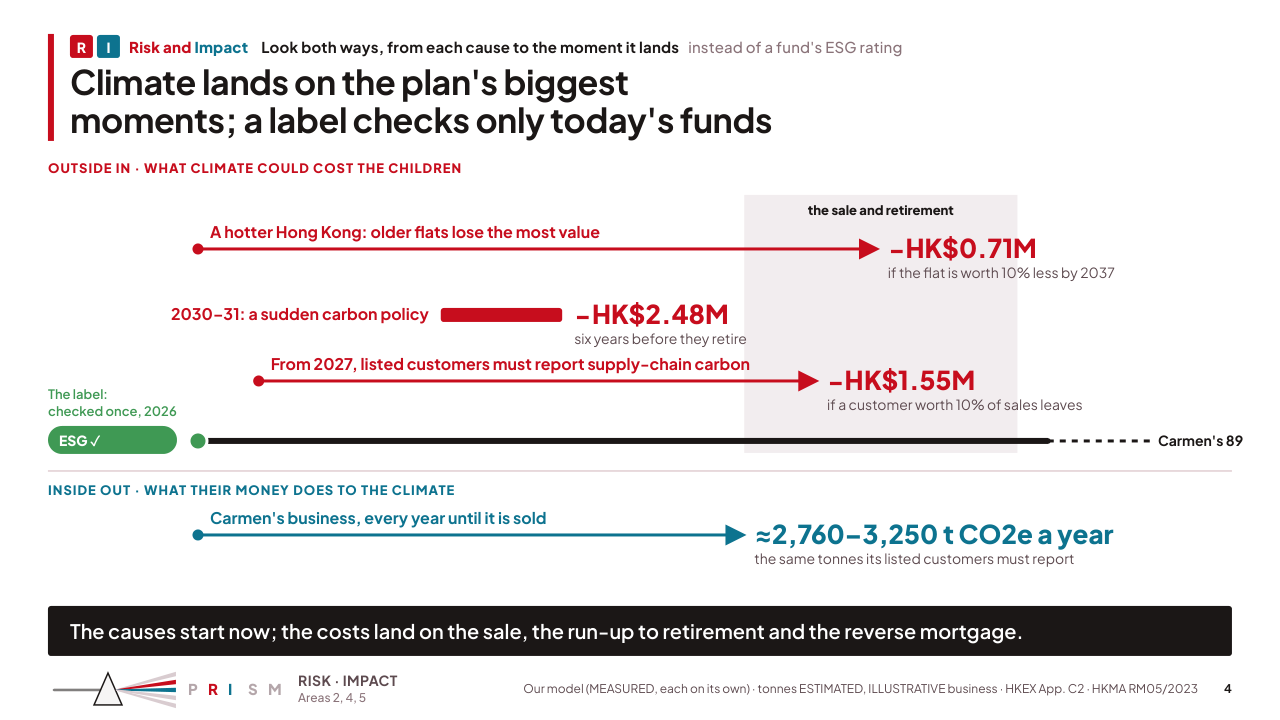
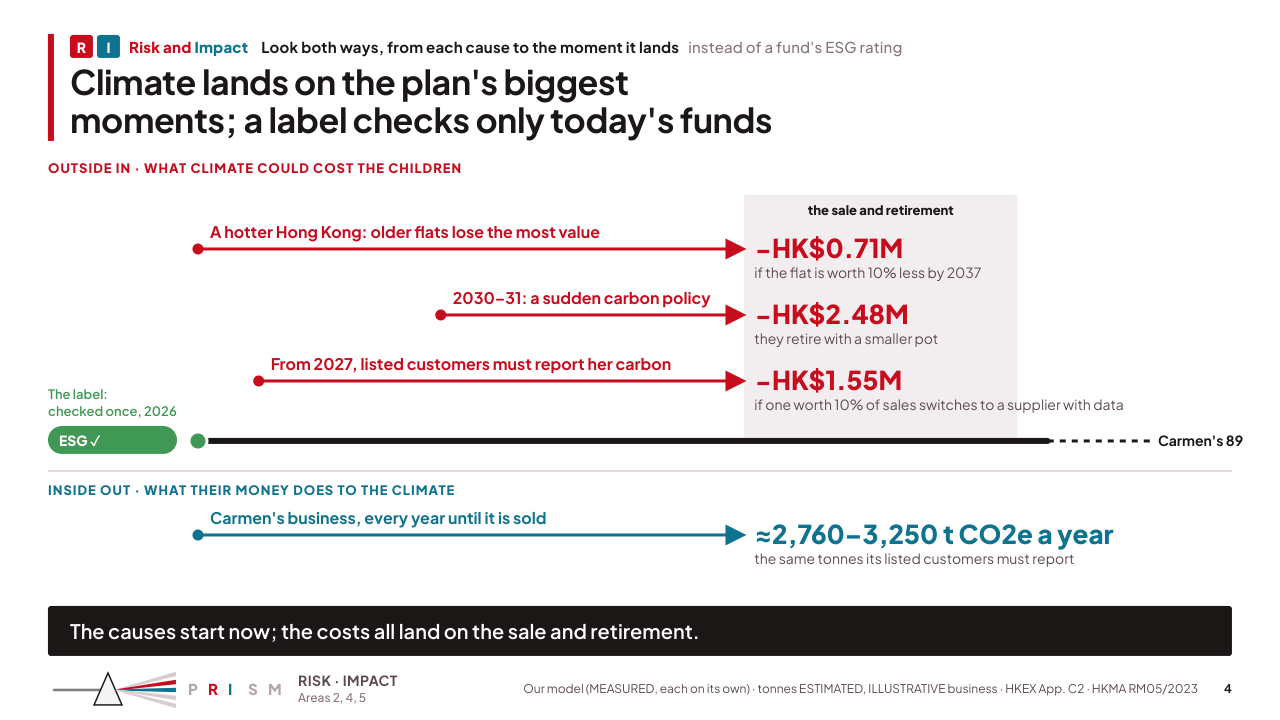
Final: slide 4, every cause a lane landing at the sale and retirement
Pete: the 2030-31 block read as a bold dash; the sale-and-retirement band ran
past the plan's line; is "a customer worth 10% of sales leaves" a valid
argument? The shock is now a lane like the others (it lands as a smaller pot
at retirement); all lanes land at the window, so the costs make one column;
the band stops at the line; the sowhat says the costs all land on the sale
and retirement. The customers' lane names whose carbon ("her carbon") and the
mechanism ("switches to a supplier with data"); the notes separate what is
sourced (HKEX Scope 3 from FY2026, data requests) from our assumptions (that
a customer leaves, the 10%).

Changed region(s): [[0.125, 0.3056, 0.875, 0.5806], [0.2812, 0.8556, 0.8125, 0.8861]]

diff --git a/Final/deck/Axis_Script.html b/Final/deck/Axis_Script.html
@@ -24,5 +24,5 @@ section p b{display:inline-block;min-width:76px;font-weight:600;font-size:14px;l
 <p class="sum">Team Axis · generated 2026-11-11 from the slides' speaker notes.</p>
 <p class="sum">33 spoken words (the budget is about 1,200 for 9:20). Slides allotted 8:50. Speech: 0:13 at 145 words a minute (0:33 with names and handovers); 0:14 at 135 words a minute (0:34 with names and handovers); 0:15 at 125 words a minute (0:35 with names and handovers). Over 10:30 disqualifies the team.</p>
 <p class="sum">Speaking time at 135 words a minute: Pete 0:05, Lookbua 0:04, Fahtai 0:02, Win 0:02.</p>
-<section><p class="n">1</p><div><h2>[The plan built on labels falls below the family&#x27;s safety floor]</h2><p class="m">The pre-mortem · 2031, a scenario, not a forecast · Pete · 0:55 · 3 spoken words (≈1 s at 135)</p><p><b>Pete</b>[script to write]</p><p class="x">Notes: Pete says their simple name before their part. Say &quot;Team Axis&quot; before the first words. Evidence status per claim in §4.5.</p></div></section><section><p class="n">2</p><div><h2>PRISM</h2><p class="m">Pete · 0:45 · 3 spoken words (≈1 s at 135)</p><p><b>Pete</b>[script to write]</p><p class="x">Notes: Pete says his simple name before his part. What it must prove: Final/Final_Plan.md §4.5, slide 2, and §4.2 &quot;five letters, five twists&quot;. Evidence status per claim in §4.5.</p></div></section><section><p class="n">3</p><div><h2>[For one Hong Kong family: N changes, HK$… of capital, HK$… more to the children, … t a year less]</h2><p class="m">Pete · 0:45 · 3 spoken words (≈1 s at 135)</p><p><b>Pete</b>[script to write]</p><p class="x">Notes: Pete says their simple name before their part. Evidence status per claim in §4.5.</p></div></section><section><p class="n">4</p><div><h2>Climate lands on the plan&#x27;s biggest moments; a label checks only today&#x27;s funds</h2><p class="m">Lookbua · 0:45 · 3 spoken words (≈1 s at 135)</p><p><b>Lookbua</b>[script to write]</p><p class="x">Notes: Lookbua says her simple name before her part. Must prove: Final_Plan.md §4.5, slide 4. Money: change in the children&#x27;s median inheritance at Carmen&#x27;s 89, each on its own (our model, M3, M6, M7: MEASURED, exploratory runs). Customers: HKEX Listing Rules App. C2 (LargeCap Scope 3 from FY2026, first reports 2027). Tonnes: area2_business.md §3b (ESTIMATED, ILLUSTRATIVE business). Older flats, if asked &quot;isn&#x27;t that just ageing?&quot;: HKMA Research Memorandum 05/2023 finds that in a hotter Hong Kong (HKO&#x27;s &quot;High&quot; scenario) average prices could be 4% to 21% lower by about 2050, and &quot;the older the property, the larger the expected adverse impact&quot;. Ageing would lower an old flat&#x27;s price anyway; the climate part is the extra the HKMA finds. Our −10% by 2037 is a test, not the HKMA&#x27;s number (ILLUSTRATIVE); area4_property_scenario.md §3.3. The packaging share (98%) is on slide 7; shares as a footprint, not a change, on slide 9.</p></div></section><section><p class="n">5</p><div><h2>Test the whole household in one storm: climate hits every asset at once, and the loss lasts</h2><p class="m">Lookbua · 0:40 · 3 spoken words (≈1 s at 135)</p><p><b>Lookbua</b>[script to write]</p><p class="x">Notes: Lookbua says their simple name before their part. Must prove: Final_Plan.md §4.5, slide 5. Lines: the parents&#x27; net worth at the start of each year (the median portfolio after the children&#x27;s education money, the flat less the mortgage and the reverse-mortgage loan, the business at its HK$3.0M sale price until 2039: ILLUSTRATIVE before the sale), final_model.py net_worth_path(), MEASURED on our model. The normal line falls after 2037 by design: retirement spending, the two annuities, the reverse-mortgage loan. The shock: area4_property_scenario.md §5.1 (sizes ILLUSTRATIVE, set between NGFS, HKMA, BoE, ECB and CISL bounds; the ESG sleeve takes the same shock as other shares). The three parts are each run on its own; together they explain the gap. If asked &quot;isn&#x27;t the portfolio what matters?&quot;: it is the biggest part, and it is market risk no label changes; the decision that moves the outcome is on the flat (slide 6).</p></div></section><section><p class="n">6</p><div><h2>The guardrails decide before preferences</h2><p class="m">Lookbua · 0:45 · 3 spoken words (≈1 s at 135)</p><p><b>Lookbua</b>[script to write]</p><p class="x">Notes: Lookbua says their simple name before their part. Evidence status per claim in §4.5.</p></div></section><section><p class="n">7</p><div><h2>Most effect per HK$ first</h2><p class="m">Fahtai · 0:55 · 3 spoken words (≈1 s at 135)</p><p><b>Fahtai</b>[script to write]</p><p class="x">Notes: Fahtai says their simple name before their part. Evidence status per claim in §4.5.</p></div></section><section><p class="n">8</p><div><h2>The kind of finance sets the test: judge a green loan as a loan</h2><p class="m">Fahtai · 0:55 · 3 spoken words (≈1 s at 135)</p><p><b>Fahtai</b>[script to write]</p><p class="x">Notes: Fahtai says their simple name before their part. Evidence status per claim in §4.5.</p></div></section><section><p class="n">9</p><div><h2>The sustainable share is an output of the budgets, not a target</h2><p class="m">Win · 1:00 · 3 spoken words (≈1 s at 135)</p><p><b>Win</b>[script to write]</p><p class="x">Notes: Win says their simple name before their part. Evidence status per claim in §4.5.</p></div></section><section><p class="n">10</p><div><h2>Every missing price is a decision, and the plan knows when it&#x27;s wrong</h2><p class="m">Win · 0:45 · 3 spoken words (≈1 s at 135)</p><p><b>Win</b>[script to write]</p><p class="x">Notes: Win says their simple name before their part. Evidence status per claim in §4.5.</p></div></section><section><p class="n">11</p><div><h2>[Same storm, our plan: above the floor, because the framework took out what didn&#x27;t work]</h2><p class="m">The replay · 2031, the same storm · Pete · 0:40 · 3 spoken words (≈1 s at 135)</p><p><b>Pete</b>[script to write]</p><p class="x">Notes: Pete says their simple name before their part. Evidence status per claim in §4.5.</p></div></section>
+<section><p class="n">1</p><div><h2>[The plan built on labels falls below the family&#x27;s safety floor]</h2><p class="m">The pre-mortem · 2031, a scenario, not a forecast · Pete · 0:55 · 3 spoken words (≈1 s at 135)</p><p><b>Pete</b>[script to write]</p><p class="x">Notes: Pete says their simple name before their part. Say &quot;Team Axis&quot; before the first words. Evidence status per claim in §4.5.</p></div></section><section><p class="n">2</p><div><h2>PRISM</h2><p class="m">Pete · 0:45 · 3 spoken words (≈1 s at 135)</p><p><b>Pete</b>[script to write]</p><p class="x">Notes: Pete says his simple name before his part. What it must prove: Final/Final_Plan.md §4.5, slide 2, and §4.2 &quot;five letters, five twists&quot;. Evidence status per claim in §4.5.</p></div></section><section><p class="n">3</p><div><h2>[For one Hong Kong family: N changes, HK$… of capital, HK$… more to the children, … t a year less]</h2><p class="m">Pete · 0:45 · 3 spoken words (≈1 s at 135)</p><p><b>Pete</b>[script to write]</p><p class="x">Notes: Pete says their simple name before their part. Evidence status per claim in §4.5.</p></div></section><section><p class="n">4</p><div><h2>Climate lands on the plan&#x27;s biggest moments; a label checks only today&#x27;s funds</h2><p class="m">Lookbua · 0:45 · 3 spoken words (≈1 s at 135)</p><p><b>Lookbua</b>[script to write]</p><p class="x">Notes: Lookbua says her simple name before her part. Must prove: Final_Plan.md §4.5, slide 4. Money: change in the children&#x27;s median inheritance at Carmen&#x27;s 89, each on its own (our model, M3, M6, M7: MEASURED, exploratory runs). Customers: HKEX Listing Rules App. C2 (LargeCap Scope 3 from FY2026, first reports 2027). Tonnes: area2_business.md §3b (ESTIMATED, ILLUSTRATIVE business). Older flats, if asked &quot;isn&#x27;t that just ageing?&quot;: HKMA Research Memorandum 05/2023 finds that in a hotter Hong Kong (HKO&#x27;s &quot;High&quot; scenario) average prices could be 4% to 21% lower by about 2050, and &quot;the older the property, the larger the expected adverse impact&quot;. Ageing would lower an old flat&#x27;s price anyway; the climate part is the extra the HKMA finds. Our −10% by 2037 is a test, not the HKMA&#x27;s number (ILLUSTRATIVE); area4_property_scenario.md §3.3. The packaging share (98%) is on slide 7; shares as a footprint, not a change, on slide 9. Customers, if asked &quot;reporting is only disclosure, why would anyone leave?&quot;: what is sourced is that LargeCap issuers must report Scope 3 from FY2026 and HKEX tells them to request supplier data; her packaging is their Category 1. Our inference from how Scope 3 is counted: a supplier without data is counted at an industry average, which a customer with a target can&#x27;t show falling, so the account can go to a rival who shows lower numbers. That a customer leaves, and the 10%, are our assumptions (M3, a sensitivity, not a forecast; her customers are ILLUSTRATIVE). The answer is cheap: data at about HK$50K a year pays for itself if it keeps 0.6% of sales (slide 8).</p></div></section><section><p class="n">5</p><div><h2>Test the whole household in one storm: climate hits every asset at once, and the loss lasts</h2><p class="m">Lookbua · 0:40 · 3 spoken words (≈1 s at 135)</p><p><b>Lookbua</b>[script to write]</p><p class="x">Notes: Lookbua says their simple name before their part. Must prove: Final_Plan.md §4.5, slide 5. Lines: the parents&#x27; net worth at the start of each year (the median portfolio after the children&#x27;s education money, the flat less the mortgage and the reverse-mortgage loan, the business at its HK$3.0M sale price until 2039: ILLUSTRATIVE before the sale), final_model.py net_worth_path(), MEASURED on our model. The normal line falls after 2037 by design: retirement spending, the two annuities, the reverse-mortgage loan. The shock: area4_property_scenario.md §5.1 (sizes ILLUSTRATIVE, set between NGFS, HKMA, BoE, ECB and CISL bounds; the ESG sleeve takes the same shock as other shares). The three parts are each run on its own; together they explain the gap. If asked &quot;isn&#x27;t the portfolio what matters?&quot;: it is the biggest part, and it is market risk no label changes; the decision that moves the outcome is on the flat (slide 6).</p></div></section><section><p class="n">6</p><div><h2>The guardrails decide before preferences</h2><p class="m">Lookbua · 0:45 · 3 spoken words (≈1 s at 135)</p><p><b>Lookbua</b>[script to write]</p><p class="x">Notes: Lookbua says their simple name before their part. Evidence status per claim in §4.5.</p></div></section><section><p class="n">7</p><div><h2>Most effect per HK$ first</h2><p class="m">Fahtai · 0:55 · 3 spoken words (≈1 s at 135)</p><p><b>Fahtai</b>[script to write]</p><p class="x">Notes: Fahtai says their simple name before their part. Evidence status per claim in §4.5.</p></div></section><section><p class="n">8</p><div><h2>The kind of finance sets the test: judge a green loan as a loan</h2><p class="m">Fahtai · 0:55 · 3 spoken words (≈1 s at 135)</p><p><b>Fahtai</b>[script to write]</p><p class="x">Notes: Fahtai says their simple name before their part. Evidence status per claim in §4.5.</p></div></section><section><p class="n">9</p><div><h2>The sustainable share is an output of the budgets, not a target</h2><p class="m">Win · 1:00 · 3 spoken words (≈1 s at 135)</p><p><b>Win</b>[script to write]</p><p class="x">Notes: Win says their simple name before their part. Evidence status per claim in §4.5.</p></div></section><section><p class="n">10</p><div><h2>Every missing price is a decision, and the plan knows when it&#x27;s wrong</h2><p class="m">Win · 0:45 · 3 spoken words (≈1 s at 135)</p><p><b>Win</b>[script to write]</p><p class="x">Notes: Win says their simple name before their part. Evidence status per claim in §4.5.</p></div></section><section><p class="n">11</p><div><h2>[Same storm, our plan: above the floor, because the framework took out what didn&#x27;t work]</h2><p class="m">The replay · 2031, the same storm · Pete · 0:40 · 3 spoken words (≈1 s at 135)</p><p><b>Pete</b>[script to write]</p><p class="x">Notes: Pete says their simple name before their part. Evidence status per claim in §4.5.</p></div></section>
 </main></body></html>

diff --git a/Final/deck/Axis.html b/Final/deck/Axis.html
@@ -254,10 +254,10 @@ tr.total td{border-top:2.5px solid var(--ink);font-weight:700}
 <section class="slide sec-R" id="s4" data-time="0:45" data-speaker="Lookbua">
   <header class="head"><p class="kick kt"><b class="kt-L">R</b><b class="kt-L kt-I">I</b><b class="kt-n">Risk and <span class="kt-i">Impact</span></b><span class="kt-do">Look both ways, from each cause to the moment it lands</span><span class="kt-not">instead of a fund's ESG rating</span></p>
     <h2>Climate lands on the plan's biggest moments; a label checks only today's funds</h2></header>
-  <div class="body stack s4-body"><svg viewBox="0 0 1184 420" width="1184" height="420" style="font-family:var(--text);overflow:visible"><defs><marker id="aR" viewBox="0 0 10 10" refX="8" refY="5" markerWidth="7" markerHeight="7" orient="auto-start-reverse"><path d="M0,0 L10,5 L0,10 z" fill="#C80E1E"/></marker><marker id="aI" viewBox="0 0 10 10" refX="8" refY="5" markerWidth="7" markerHeight="7" orient="auto-start-reverse"><path d="M0,0 L10,5 L0,10 z" fill="#0E7490"/></marker></defs><text x="0" y="14" font-size="13" font-weight="800" letter-spacing="1" fill="#C80E1E">OUTSIDE IN · WHAT CLIMATE COULD COST THE CHILDREN</text><rect x="696.3000000000001" y="36" width="273.15" height="258" fill="#F3EEEF"/><text x="832.875" y="56" font-size="13" font-weight="800" fill="#1B1716" text-anchor="middle">the sale and retirement</text><circle cx="150.0" cy="90" r="5.5" fill="#C80E1E"/><line x1="150.0" y1="90" x2="827.8400000000028" y2="90" stroke="#C80E1E" stroke-width="3" marker-end="url(#aR)"/><text x="162.0" y="79" font-size="16" font-weight="700" fill="#C80E1E">A hotter Hong Kong: older flats lose the most value</text><text x="839.8400000000028" y="99" font-size="26" font-weight="800" fill="#C80E1E">−HK$0.71M</text><text x="839.8400000000028" y="119" font-size="14" fill="#5E4A50">if the flat is worth 10% less by 2037</text><rect x="392.8" y="149" width="121.40000000000003" height="14" rx="3" fill="#C80E1E"/><text x="380.8" y="161" font-size="16" font-weight="700" fill="#C80E1E" text-anchor="end">2030–31: a sudden carbon policy</text><text x="526.2" y="165" font-size="26" font-weight="800" fill="#C80E1E">−HK$2.48M</text><text x="526.2" y="185" font-size="14" fill="#5E4A50">six years before they retire</text><circle cx="210.7" cy="222" r="5.5" fill="#C80E1E"/><line x1="210.7" y1="222" x2="767.1400000000028" y2="222" stroke="#C80E1E" stroke-width="3" marker-end="url(#aR)"/><text x="222.7" y="211" font-size="16" font-weight="700" fill="#C80E1E">From 2027, listed customers must report supply-chain carbon</text><text x="779.1400000000028" y="231" font-size="26" font-weight="800" fill="#C80E1E">−HK$1.55M</text><text x="779.1400000000028" y="251" font-size="14" fill="#5E4A50">if a customer worth 10% of sales leaves</text><line x1="150.0" y1="282" x2="999.8000000000001" y2="282" stroke="#1B1716" stroke-width="6" stroke-linecap="round"/><line x1="999.8000000000001" y1="282" x2="1105" y2="282" stroke="#1B1716" stroke-width="3" stroke-dasharray="6 6"/><text x="1110" y="287" font-size="14" font-weight="700" fill="#1B1716">Carmen's 89</text><circle cx="150.0" cy="282" r="9" fill="#3F9A55" stroke="#fff" stroke-width="3"/><line x1="0" y1="312" x2="1184" y2="312" stroke="#E2CFD3" stroke-width="1.5"/><text x="0" y="336" font-size="13" font-weight="800" letter-spacing="1" fill="#0E7490">INSIDE OUT · WHAT THEIR MONEY DOES TO THE CLIMATE</text><circle cx="150.0" cy="376" r="5.5" fill="#0E7490"/><line x1="150.0" y1="376" x2="694.3000000000001" y2="376" stroke="#0E7490" stroke-width="3" marker-end="url(#aI)"/><text x="162.0" y="365" font-size="16" font-weight="700" fill="#0E7490">Carmen's business, every year until it is sold</text><text x="706.3000000000001" y="385" font-size="26" font-weight="800" fill="#0E7490">≈2,760–3,250 t CO2e a year</text><text x="706.3000000000001" y="405" font-size="14" fill="#5E4A50">the same tonnes its listed customers must report</text></svg>
+  <div class="body stack s4-body"><svg viewBox="0 0 1184 420" width="1184" height="420" style="font-family:var(--text);overflow:visible"><defs><marker id="aR" viewBox="0 0 10 10" refX="8" refY="5" markerWidth="7" markerHeight="7" orient="auto-start-reverse"><path d="M0,0 L10,5 L0,10 z" fill="#C80E1E"/></marker><marker id="aI" viewBox="0 0 10 10" refX="8" refY="5" markerWidth="7" markerHeight="7" orient="auto-start-reverse"><path d="M0,0 L10,5 L0,10 z" fill="#0E7490"/></marker></defs><text x="0" y="14" font-size="13" font-weight="800" letter-spacing="1" fill="#C80E1E">OUTSIDE IN · WHAT CLIMATE COULD COST THE CHILDREN</text><rect x="696.3000000000001" y="36" width="273.15" height="246" fill="#F3EEEF"/><text x="832.875" y="56" font-size="13" font-weight="800" fill="#1B1716" text-anchor="middle">the sale and retirement</text><circle cx="150.0" cy="90" r="5.5" fill="#C80E1E"/><line x1="150.0" y1="90" x2="694.3000000000001" y2="90" stroke="#C80E1E" stroke-width="3" marker-end="url(#aR)"/><text x="162.0" y="79" font-size="16" font-weight="700" fill="#C80E1E">A hotter Hong Kong: older flats lose the most value</text><text x="706.3000000000001" y="99" font-size="26" font-weight="800" fill="#C80E1E">−HK$0.71M</text><text x="706.3000000000001" y="119" font-size="14" fill="#5E4A50">if the flat is worth 10% less by 2037</text><circle cx="392.8" cy="156" r="5.5" fill="#C80E1E"/><line x1="392.8" y1="156" x2="694.3000000000001" y2="156" stroke="#C80E1E" stroke-width="3" marker-end="url(#aR)"/><text x="404.8" y="145" font-size="16" font-weight="700" fill="#C80E1E">2030–31: a sudden carbon policy</text><text x="706.3000000000001" y="165" font-size="26" font-weight="800" fill="#C80E1E">−HK$2.48M</text><text x="706.3000000000001" y="185" font-size="14" fill="#5E4A50">they retire with a smaller pot</text><circle cx="210.7" cy="222" r="5.5" fill="#C80E1E"/><line x1="210.7" y1="222" x2="694.3000000000001" y2="222" stroke="#C80E1E" stroke-width="3" marker-end="url(#aR)"/><text x="222.7" y="211" font-size="16" font-weight="700" fill="#C80E1E">From 2027, listed customers must report her carbon</text><text x="706.3000000000001" y="231" font-size="26" font-weight="800" fill="#C80E1E">−HK$1.55M</text><text x="706.3000000000001" y="251" font-size="14" fill="#5E4A50">if one worth 10% of sales switches to a supplier with data</text><line x1="150.0" y1="282" x2="999.8000000000001" y2="282" stroke="#1B1716" stroke-width="6" stroke-linecap="round"/><line x1="999.8000000000001" y1="282" x2="1105" y2="282" stroke="#1B1716" stroke-width="3" stroke-dasharray="6 6"/><text x="1110" y="287" font-size="14" font-weight="700" fill="#1B1716">Carmen's 89</text><circle cx="150.0" cy="282" r="9" fill="#3F9A55" stroke="#fff" stroke-width="3"/><line x1="0" y1="312" x2="1184" y2="312" stroke="#E2CFD3" stroke-width="1.5"/><text x="0" y="336" font-size="13" font-weight="800" letter-spacing="1" fill="#0E7490">INSIDE OUT · WHAT THEIR MONEY DOES TO THE CLIMATE</text><circle cx="150.0" cy="376" r="5.5" fill="#0E7490"/><line x1="150.0" y1="376" x2="694.3000000000001" y2="376" stroke="#0E7490" stroke-width="3" marker-end="url(#aI)"/><text x="162.0" y="365" font-size="16" font-weight="700" fill="#0E7490">Carmen's business, every year until it is sold</text><text x="706.3000000000001" y="385" font-size="26" font-weight="800" fill="#0E7490">≈2,760–3,250 t CO2e a year</text><text x="706.3000000000001" y="405" font-size="14" fill="#5E4A50">the same tonnes its listed customers must report</text></svg>
     <div class="s4-lbl"><span class="chip">ESG ✓</span><p>The label:<br>checked once, 2026</p></div>
   </div>
-  <p class="sowhat">The causes start now; the costs land on the sale, the run-up to retirement and the reverse mortgage.</p>
+  <p class="sowhat">The causes start now; the costs all land on the sale and retirement.</p>
   <aside class="notes">LOOKBUA: [script to write] [Notes: Lookbua says her simple name before her part. Must prove:
     Final_Plan.md §4.5, slide 4. Money: change in the children's median inheritance at Carmen's 89, each on its own
     (our model, M3, M6, M7: MEASURED, exploratory runs). Customers: HKEX Listing Rules App. C2 (LargeCap Scope 3 from
@@ -266,7 +266,14 @@ tr.total td{border-top:2.5px solid var(--ink);font-weight:700}
     scenario) average prices could be 4% to 21% lower by about 2050, and "the older the property, the larger the
     expected adverse impact". Ageing would lower an old flat's price anyway; the climate part is the extra the HKMA
     finds. Our −10% by 2037 is a test, not the HKMA's number (ILLUSTRATIVE); area4_property_scenario.md §3.3.
-    The packaging share (98%) is on slide 7; shares as a footprint, not a change, on slide 9.]</aside>
+    The packaging share (98%) is on slide 7; shares as a footprint, not a change, on slide 9. Customers, if
+    asked "reporting is only disclosure, why would anyone leave?": what is sourced is that LargeCap issuers must report
+    Scope 3 from FY2026 and HKEX tells them to request supplier data; her packaging is their Category 1. Our inference
+    from how Scope 3 is counted: a supplier without data is counted at an industry average, which a customer with a
+    target can't show falling, so the account can go to a rival who shows lower numbers. That a customer leaves, and
+    the 10%, are our assumptions (M3, a sensitivity, not a
+    forecast; her customers are ILLUSTRATIVE). The answer is cheap: data at about HK$50K a year pays for itself if it
+    keeps 0.6% of sales (slide 8).]</aside>
   <footer class="foot">
     <div class="badge-prism"><svg viewBox="0 0 236 44" width="236" height="44"><line x1="6" y1="23" x2="52" y2="23" stroke="#1B1716" stroke-opacity=".55" stroke-width="2.6" stroke-linecap="round"/><polygon points="60,6 46,38 74,38" fill="#1B1716" fill-opacity=".04" stroke="#1B1716" stroke-width="1.5"/><polygon points="68,22.4 128,4.8 128,9.2 68,23.6" fill="#D9CDD0"/><polygon points="68,22.4 128,12.8 128,17.2 68,23.6" fill="#C80E1E"/><polygon points="68,22.4 128,20.8 128,25.2 68,23.6" fill="#0E7490"/><polygon points="68,22.4 128,28.8 128,33.2 68,23.6" fill="#D9CDD0"/><polygon points="68,22.4 128,36.8 128,41.2 68,23.6" fill="#D9CDD0"/><text x="140" y="28.5" font-size="15" font-weight="800" fill="#B5A6AA">P</text><text x="160" y="28.5" font-size="15" font-weight="800" fill="#C80E1E">R</text><text x="180" y="28.5" font-size="15" font-weight="800" fill="#0E7490">I</text><text x="200" y="28.5" font-size="15" font-weight="800" fill="#B5A6AA">S</text><text x="220" y="28.5" font-size="15" font-weight="800" fill="#B5A6AA">M</text></svg><p>RISK · IMPACT<span>Areas 2, 4, 5</span></p></div>
     <p class="src">Our model (MEASURED, each on its own) · tonnes ESTIMATED, ILLUSTRATIVE business · HKEX App. C2 · HKMA RM05/2023</p><span class="pg">4</span>

diff --git a/Final/deck/src/01_talk.html b/Final/deck/src/01_talk.html
@@ -79,10 +79,10 @@
 <section class="slide sec-R" id="s4" data-time="0:45" data-speaker="Lookbua">
   <header class="head"><p class="kick kt"><b class="kt-L">R</b><b class="kt-L kt-I">I</b><b class="kt-n">Risk and <span class="kt-i">Impact</span></b><span class="kt-do">Look both ways, from each cause to the moment it lands</span><span class="kt-not">instead of a fund's ESG rating</span></p>
     <h2>Climate lands on the plan's biggest moments; a label checks only today's funds</h2></header>
-  <div class="body stack s4-body"><svg viewBox="0 0 1184 420" width="1184" height="420" style="font-family:var(--text);overflow:visible"><defs><marker id="aR" viewBox="0 0 10 10" refX="8" refY="5" markerWidth="7" markerHeight="7" orient="auto-start-reverse"><path d="M0,0 L10,5 L0,10 z" fill="#C80E1E"/></marker><marker id="aI" viewBox="0 0 10 10" refX="8" refY="5" markerWidth="7" markerHeight="7" orient="auto-start-reverse"><path d="M0,0 L10,5 L0,10 z" fill="#0E7490"/></marker></defs><text x="0" y="14" font-size="13" font-weight="800" letter-spacing="1" fill="#C80E1E">OUTSIDE IN · WHAT CLIMATE COULD COST THE CHILDREN</text><rect x="696.3000000000001" y="36" width="273.15" height="258" fill="#F3EEEF"/><text x="832.875" y="56" font-size="13" font-weight="800" fill="#1B1716" text-anchor="middle">the sale and retirement</text><circle cx="150.0" cy="90" r="5.5" fill="#C80E1E"/><line x1="150.0" y1="90" x2="827.8400000000028" y2="90" stroke="#C80E1E" stroke-width="3" marker-end="url(#aR)"/><text x="162.0" y="79" font-size="16" font-weight="700" fill="#C80E1E">A hotter Hong Kong: older flats lose the most value</text><text x="839.8400000000028" y="99" font-size="26" font-weight="800" fill="#C80E1E">{{fin_flat10_leg}}</text><text x="839.8400000000028" y="119" font-size="14" fill="#5E4A50">if the flat is worth 10% less by 2037</text><rect x="392.8" y="149" width="121.40000000000003" height="14" rx="3" fill="#C80E1E"/><text x="380.8" y="161" font-size="16" font-weight="700" fill="#C80E1E" text-anchor="end">2030–31: a sudden carbon policy</text><text x="526.2" y="165" font-size="26" font-weight="800" fill="#C80E1E">{{fin_shockport_leg}}</text><text x="526.2" y="185" font-size="14" fill="#5E4A50">six years before they retire</text><circle cx="210.7" cy="222" r="5.5" fill="#C80E1E"/><line x1="210.7" y1="222" x2="767.1400000000028" y2="222" stroke="#C80E1E" stroke-width="3" marker-end="url(#aR)"/><text x="222.7" y="211" font-size="16" font-weight="700" fill="#C80E1E">From 2027, listed customers must report supply-chain carbon</text><text x="779.1400000000028" y="231" font-size="26" font-weight="800" fill="#C80E1E">{{fin_cust10_leg}}</text><text x="779.1400000000028" y="251" font-size="14" fill="#5E4A50">if a customer worth 10% of sales leaves</text><line x1="150.0" y1="282" x2="999.8000000000001" y2="282" stroke="#1B1716" stroke-width="6" stroke-linecap="round"/><line x1="999.8000000000001" y1="282" x2="1105" y2="282" stroke="#1B1716" stroke-width="3" stroke-dasharray="6 6"/><text x="1110" y="287" font-size="14" font-weight="700" fill="#1B1716">Carmen's 89</text><circle cx="150.0" cy="282" r="9" fill="#3F9A55" stroke="#fff" stroke-width="3"/><line x1="0" y1="312" x2="1184" y2="312" stroke="#E2CFD3" stroke-width="1.5"/><text x="0" y="336" font-size="13" font-weight="800" letter-spacing="1" fill="#0E7490">INSIDE OUT · WHAT THEIR MONEY DOES TO THE CLIMATE</text><circle cx="150.0" cy="376" r="5.5" fill="#0E7490"/><line x1="150.0" y1="376" x2="694.3000000000001" y2="376" stroke="#0E7490" stroke-width="3" marker-end="url(#aI)"/><text x="162.0" y="365" font-size="16" font-weight="700" fill="#0E7490">Carmen's business, every year until it is sold</text><text x="706.3000000000001" y="385" font-size="26" font-weight="800" fill="#0E7490">≈2,760–3,250 t CO2e a year</text><text x="706.3000000000001" y="405" font-size="14" fill="#5E4A50">the same tonnes its listed customers must report</text></svg>
+  <div class="body stack s4-body"><svg viewBox="0 0 1184 420" width="1184" height="420" style="font-family:var(--text);overflow:visible"><defs><marker id="aR" viewBox="0 0 10 10" refX="8" refY="5" markerWidth="7" markerHeight="7" orient="auto-start-reverse"><path d="M0,0 L10,5 L0,10 z" fill="#C80E1E"/></marker><marker id="aI" viewBox="0 0 10 10" refX="8" refY="5" markerWidth="7" markerHeight="7" orient="auto-start-reverse"><path d="M0,0 L10,5 L0,10 z" fill="#0E7490"/></marker></defs><text x="0" y="14" font-size="13" font-weight="800" letter-spacing="1" fill="#C80E1E">OUTSIDE IN · WHAT CLIMATE COULD COST THE CHILDREN</text><rect x="696.3000000000001" y="36" width="273.15" height="246" fill="#F3EEEF"/><text x="832.875" y="56" font-size="13" font-weight="800" fill="#1B1716" text-anchor="middle">the sale and retirement</text><circle cx="150.0" cy="90" r="5.5" fill="#C80E1E"/><line x1="150.0" y1="90" x2="694.3000000000001" y2="90" stroke="#C80E1E" stroke-width="3" marker-end="url(#aR)"/><text x="162.0" y="79" font-size="16" font-weight="700" fill="#C80E1E">A hotter Hong Kong: older flats lose the most value</text><text x="706.3000000000001" y="99" font-size="26" font-weight="800" fill="#C80E1E">{{fin_flat10_leg}}</text><text x="706.3000000000001" y="119" font-size="14" fill="#5E4A50">if the flat is worth 10% less by 2037</text><circle cx="392.8" cy="156" r="5.5" fill="#C80E1E"/><line x1="392.8" y1="156" x2="694.3000000000001" y2="156" stroke="#C80E1E" stroke-width="3" marker-end="url(#aR)"/><text x="404.8" y="145" font-size="16" font-weight="700" fill="#C80E1E">2030–31: a sudden carbon policy</text><text x="706.3000000000001" y="165" font-size="26" font-weight="800" fill="#C80E1E">{{fin_shockport_leg}}</text><text x="706.3000000000001" y="185" font-size="14" fill="#5E4A50">they retire with a smaller pot</text><circle cx="210.7" cy="222" r="5.5" fill="#C80E1E"/><line x1="210.7" y1="222" x2="694.3000000000001" y2="222" stroke="#C80E1E" stroke-width="3" marker-end="url(#aR)"/><text x="222.7" y="211" font-size="16" font-weight="700" fill="#C80E1E">From 2027, listed customers must report her carbon</text><text x="706.3000000000001" y="231" font-size="26" font-weight="800" fill="#C80E1E">{{fin_cust10_leg}}</text><text x="706.3000000000001" y="251" font-size="14" fill="#5E4A50">if one worth 10% of sales switches to a supplier with data</text><line x1="150.0" y1="282" x2="999.8000000000001" y2="282" stroke="#1B1716" stroke-width="6" stroke-linecap="round"/><line x1="999.8000000000001" y1="282" x2="1105" y2="282" stroke="#1B1716" stroke-width="3" stroke-dasharray="6 6"/><text x="1110" y="287" font-size="14" font-weight="700" fill="#1B1716">Carmen's 89</text><circle cx="150.0" cy="282" r="9" fill="#3F9A55" stroke="#fff" stroke-width="3"/><line x1="0" y1="312" x2="1184" y2="312" stroke="#E2CFD3" stroke-width="1.5"/><text x="0" y="336" font-size="13" font-weight="800" letter-spacing="1" fill="#0E7490">INSIDE OUT · WHAT THEIR MONEY DOES TO THE CLIMATE</text><circle cx="150.0" cy="376" r="5.5" fill="#0E7490"/><line x1="150.0" y1="376" x2="694.3000000000001" y2="376" stroke="#0E7490" stroke-width="3" marker-end="url(#aI)"/><text x="162.0" y="365" font-size="16" font-weight="700" fill="#0E7490">Carmen's business, every year until it is sold</text><text x="706.3000000000001" y="385" font-size="26" font-weight="800" fill="#0E7490">≈2,760–3,250 t CO2e a year</text><text x="706.3000000000001" y="405" font-size="14" fill="#5E4A50">the same tonnes its listed customers must report</text></svg>
     <div class="s4-lbl"><span class="chip">ESG ✓</span><p>The label:<br>checked once, 2026</p></div>
   </div>
-  <p class="sowhat">The causes start now; the costs land on the sale, the run-up to retirement and the reverse mortgage.</p>
+  <p class="sowhat">The causes start now; the costs all land on the sale and retirement.</p>
   <aside class="notes">LOOKBUA: [script to write] [Notes: Lookbua says her simple name before her part. Must prove:
     Final_Plan.md §4.5, slide 4. Money: change in the children's median inheritance at Carmen's 89, each on its own
     (our model, M3, M6, M7: MEASURED, exploratory runs). Customers: HKEX Listing Rules App. C2 (LargeCap Scope 3 from
@@ -91,7 +91,14 @@
     scenario) average prices could be 4% to 21% lower by about 2050, and "the older the property, the larger the
     expected adverse impact". Ageing would lower an old flat's price anyway; the climate part is the extra the HKMA
     finds. Our −10% by 2037 is a test, not the HKMA's number (ILLUSTRATIVE); area4_property_scenario.md §3.3.
-    The packaging share (98%) is on slide 7; shares as a footprint, not a change, on slide 9.]</aside>
+    The packaging share (98%) is on slide 7; shares as a footprint, not a change, on slide 9. Customers, if
+    asked "reporting is only disclosure, why would anyone leave?": what is sourced is that LargeCap issuers must report
+    Scope 3 from FY2026 and HKEX tells them to request supplier data; her packaging is their Category 1. Our inference
+    from how Scope 3 is counted: a supplier without data is counted at an industry average, which a customer with a
+    target can't show falling, so the account can go to a rival who shows lower numbers. That a customer leaves, and
+    the 10%, are our assumptions (M3, a sensitivity, not a
+    forecast; her customers are ILLUSTRATIVE). The answer is cheap: data at about HK$50K a year pays for itself if it
+    keeps 0.6% of sales (slide 8).]</aside>
   <footer class="foot">
     <div class="badge-prism"><svg viewBox="0 0 236 44" width="236" height="44"><line x1="6" y1="23" x2="52" y2="23" stroke="#1B1716" stroke-opacity=".55" stroke-width="2.6" stroke-linecap="round"/><polygon points="60,6 46,38 74,38" fill="#1B1716" fill-opacity=".04" stroke="#1B1716" stroke-width="1.5"/><polygon points="68,22.4 128,4.8 128,9.2 68,23.6" fill="#D9CDD0"/><polygon points="68,22.4 128,12.8 128,17.2 68,23.6" fill="#C80E1E"/><polygon points="68,22.4 128,20.8 128,25.2 68,23.6" fill="#0E7490"/><polygon points="68,22.4 128,28.8 128,33.2 68,23.6" fill="#D9CDD0"/><polygon points="68,22.4 128,36.8 128,41.2 68,23.6" fill="#D9CDD0"/><text x="140" y="28.5" font-size="15" font-weight="800" fill="#B5A6AA">P</text><text x="160" y="28.5" font-size="15" font-weight="800" fill="#C80E1E">R</text><text x="180" y="28.5" font-size="15" font-weight="800" fill="#0E7490">I</text><text x="200" y="28.5" font-size="15" font-weight="800" fill="#B5A6AA">S</text><text x="220" y="28.5" font-size="15" font-weight="800" fill="#B5A6AA">M</text></svg><p>RISK · IMPACT<span>Areas 2, 4, 5</span></p></div>
     <p class="src">Our model (MEASURED, each on its own) · tonnes ESTIMATED, ILLUSTRATIVE business · HKEX App. C2 · HKMA RM05/2023</p><span class="pg">4</span>

diff --git a/Final/Final_Plan.md b/Final/Final_Plan.md
@@ -613,7 +613,7 @@ The title is the idea (any client); the Wongs' proof is in "Must prove".
 | 1 | Pre-mortem | Pete | 0:55 | [2031, a scenario: the plan built on labels falls below the family's safety floor] | The dated card; the shocks; the label approach under stress (84.1%, HK$6.83M) against the 85% floor; "a pre-mortem"; why: the labels they were handed (179 funds on the SFC's list; a fund that has held nothing for two years; a green mortgage worth ≤HK$1,000 once; a grant that needs a HK$100M loan; "compostable" that is legally plastic); the gap; one line of our result | MODEL (M8); shocks HAVE (`area4_property_scenario.md` §5.1); labels HAVE; fund CALL (Win, Thu 12); SFC count CHECK (Sun 15) | — ; 3, 5 |
 | 2 | How we think | Pete | 0:45 | PRISM: look both ways | For any client: five letters, five twists (each letter with the usual way and ours, §4.2); the two directions in R and I; built on double materiality, applied to a family's whole balance sheet; climate treated like inflation, not a product; the five kinds of finance sorted by direction (small) | Definitions HAVE (`area1_6_framework.md`) | The framework; 1 |
 | 3 | The advice (P) | Pete | 0:45 | [For one Hong Kong family: N changes, HK$… of capital, HK$… more to the children, … t a year less] | Who the Wongs are and why we chose them (a business, a home, a portfolio, decision-makers who disagree; "the family in this year's competition case"; case figures vs ours); each person's want and limit in one line; the recommendation, the capital (≈HK$0.48M of the family's, ≈HK$1.9M of the business's) and both outcomes against the label approach | CASE; MODEL (EXPLORATORY, before the re-base); tonnes ESTIMATED | **Recommendation, capital, outcomes**; 1 |
-| 4 | R and I | Lookbua | 0:45 | Climate lands on the plan's biggest moments; a label checks only today's funds | One plan line, 2026 to Carmen's 89 (Pete, 11 Nov, version C, replacing the two-column balance sheet: the point is what climate does to the family's modelled plan, not a valuation); sectioned the same day after Pete's "too many text boxes": outside in and inside out split by a rule, the causes as lanes that start when the cause starts and drop onto the moment it lands, and then, after Pete's "the costs are lying in white space; which part does each number belong to?", each cost at the end of its own cause's lane, a shaded band for the sale and retirement, the loop arrow into the customers' lane; then, after "too many levels of text" and "how is older flats falling behind something climate does?", three red lanes and one teal lane for inside out (the business pointing out to its tonnes, the link to its customers said in words: Pete found an arrow into the customers' lane unclear), the flat's cause named as warming (HKMA RM05/2023: prices 4–21% lower by about 2050 in a hotter Hong Kong, more for older buildings), the packaging share moved to slide 7 and shares-as-footprint to slide 9; `Final/looks/s4-sections.png`, `s4-rows.png`, `s4-simple.png`). The label is one green tick at 2026. Above the line, the causes, which start now: customers must report supply-chain carbon from 2027; a late, sudden carbon policy in 2030–31; older flats fall behind. Below it, where each cost lands: −HK$2.48M six years before they retire; −HK$1.55M at the sale if a customer worth 10% of sales leaves; −HK$0.71M from 2037 if the flat is worth 10% less (with the reverse mortgage they stay). Inside out: the business emits ≈2,760–3,250 t a year until it's sold (98% the packaging it sells), the tonnes its customers will count (the loop); shares they own are a footprint, not a change. Weather moves to slide 6 (the flat); the EU border carbon tax and the risk register move to the notes and backup | MODEL (M3, M6, M7, each on its own; `fin_` keys); HKEX Scope 3 HAVE; tonnes ESTIMATED (ILLUSTRATIVE business) | — ; 2 (baseline), 4, 5 |
+| 4 | R and I | Lookbua | 0:45 | Climate lands on the plan's biggest moments; a label checks only today's funds | One plan line, 2026 to Carmen's 89 (Pete, 11 Nov, version C, replacing the two-column balance sheet: the point is what climate does to the family's modelled plan, not a valuation); sectioned the same day after Pete's "too many text boxes": outside in and inside out split by a rule, the causes as lanes that start when the cause starts and drop onto the moment it lands, and then, after Pete's "the costs are lying in white space; which part does each number belong to?", each cost at the end of its own cause's lane, a shaded band for the sale and retirement, the loop arrow into the customers' lane; then, after "too many levels of text" and "how is older flats falling behind something climate does?", three red lanes and one teal lane for inside out (the business pointing out to its tonnes, the link to its customers said in words: Pete found an arrow into the customers' lane unclear), the flat's cause named as warming (HKMA RM05/2023: prices 4–21% lower by about 2050 in a hotter Hong Kong, more for older buildings), the packaging share moved to slide 7 and shares-as-footprint to slide 9; then every lane, the shock included, lands at the sale-and-retirement window so the costs make one column, and the customers' caption names the mechanism ("switches to a supplier with data"; the leaving and the 10% are our assumptions, M3); `Final/looks/s4-sections.png`, `s4-rows.png`, `s4-simple.png`). The label is one green tick at 2026. Above the line, the causes, which start now: customers must report supply-chain carbon from 2027; a late, sudden carbon policy in 2030–31; older flats fall behind. Below it, where each cost lands: −HK$2.48M six years before they retire; −HK$1.55M at the sale if a customer worth 10% of sales leaves; −HK$0.71M from 2037 if the flat is worth 10% less (with the reverse mortgage they stay). Inside out: the business emits ≈2,760–3,250 t a year until it's sold (98% the packaging it sells), the tonnes its customers will count (the loop); shares they own are a footprint, not a change. Weather moves to slide 6 (the flat); the EU border carbon tax and the risk register move to the notes and backup | MODEL (M3, M6, M7, each on its own; `fin_` keys); HKEX Scope 3 HAVE; tonnes ESTIMATED (ILLUSTRATIVE business) | — ; 2 (baseline), 4, 5 |
 | 5 | R | Lookbua | 0:40 | Test the whole household in one storm: climate hits every asset at once, and the loss lasts (the idea, test 3; Pete, 11 Nov: the earlier title was a finding about the Wongs) | Pete's idea (11 Nov): the parents' net worth year by year, 2026 to Carmen's 89, the plan in a normal future against the 2030–31 shock on every channel at once (M7 All together), the gap shaded. The drop: −HK$3.1M in two years, the portfolio, the flat and the business falling together. At Carmen's 89: −HK$4.60M for the children (HK$13.0M → HK$8.4M), split portfolio −HK$2.48M, flat −HK$1.44M, business −HK$0.71M (each on its own); the chance the money lasts 96.8% → 89.5% (−7.3 points together, −5.3 one at a time). The shock's sizes on the slide. The normal line falls after 2037 by design (spending, annuities), labelled. Most of the loss is market risk no label hedges (the sowhat) | MODEL (M7; `net_worth_path()`, series `fin-storm-path` in figure-data.md, `fin_` keys); shock sizes ILLUSTRATIVE (area 4 §5.1); business before its sale ILLUSTRATIVE; NGFS Phase VI CHECK Sun 15 | **Scenario**; 5 |
 | 6 | S: the flat | Lookbua | 0:45 | The guardrails decide before preferences | Before and after, with the first price tag explained. The reverse mortgage passes both floors; downsizing leaves the children more (+HK$4.07M median if nothing falls) but fails under stress (82.7%), so it is the family's priced alternative with a trigger (the price gap against newer flats) and a deadline (the building's 50th year, 2046). Green mortgage refused (≤HK$1,000 once). Weather and insurance ("not priced yet" if still true). Retrofit when things fail | MODEL (M6, M7); HKMC HAVE; green mortgage HAVE; physical risk OPEN (Lookbua) | **Trade-off; refusal**; 4 |
 | 7 | S: the business (1) | Fahtai | 0:55 | Most effect per HK$ first | Label approach: nothing on the business. Baseline (98% Scope 3); the cost curve: vans ≈−HK$16,000 per tonne (at the pump list price; less at HK$31/L), lighter packaging ≈−HK$5,800, LED, air-con; recycled PET ≈+HK$3,030 at a 10% premium, ≈0 at today's parity; the fibre trap; the "compostable" claim stopped | ESTIMATED on an ILLUSTRATIVE business (`area2_business.md` §3); lighter packaging: add to `Decision_List.md` (Fahtai) | — ; 2 (baseline, cost curve), 5 (greenwashing) |

diff --git a/Final/deck/Axis_Script.md b/Final/deck/Axis_Script.md
@@ -32,7 +32,7 @@ Speaking time at 135 words a minute: Pete 0:05, Lookbua 0:04, Fahtai 0:02, Win 0
 
 **Lookbua:** [script to write]
 
-> Notes: Lookbua says her simple name before her part. Must prove: Final_Plan.md §4.5, slide 4. Money: change in the children's median inheritance at Carmen's 89, each on its own (our model, M3, M6, M7: MEASURED, exploratory runs). Customers: HKEX Listing Rules App. C2 (LargeCap Scope 3 from FY2026, first reports 2027). Tonnes: area2_business.md §3b (ESTIMATED, ILLUSTRATIVE business). Older flats, if asked "isn't that just ageing?": HKMA Research Memorandum 05/2023 finds that in a hotter Hong Kong (HKO's "High" scenario) average prices could be 4% to 21% lower by about 2050, and "the older the property, the larger the expected adverse impact". Ageing would lower an old flat's price anyway; the climate part is the extra the HKMA finds. Our −10% by 2037 is a test, not the HKMA's number (ILLUSTRATIVE); area4_property_scenario.md §3.3. The packaging share (98%) is on slide 7; shares as a footprint, not a change, on slide 9.
+> Notes: Lookbua says her simple name before her part. Must prove: Final_Plan.md §4.5, slide 4. Money: change in the children's median inheritance at Carmen's 89, each on its own (our model, M3, M6, M7: MEASURED, exploratory runs). Customers: HKEX Listing Rules App. C2 (LargeCap Scope 3 from FY2026, first reports 2027). Tonnes: area2_business.md §3b (ESTIMATED, ILLUSTRATIVE business). Older flats, if asked "isn't that just ageing?": HKMA Research Memorandum 05/2023 finds that in a hotter Hong Kong (HKO's "High" scenario) average prices could be 4% to 21% lower by about 2050, and "the older the property, the larger the expected adverse impact". Ageing would lower an old flat's price anyway; the climate part is the extra the HKMA finds. Our −10% by 2037 is a test, not the HKMA's number (ILLUSTRATIVE); area4_property_scenario.md §3.3. The packaging share (98%) is on slide 7; shares as a footprint, not a change, on slide 9. Customers, if asked "reporting is only disclosure, why would anyone leave?": what is sourced is that LargeCap issuers must report Scope 3 from FY2026 and HKEX tells them to request supplier data; her packaging is their Category 1. Our inference from how Scope 3 is counted: a supplier without data is counted at an industry average, which a customer with a target can't show falling, so the account can go to a rival who shows lower numbers. That a customer leaves, and the 10%, are our assumptions (M3, a sensitivity, not a forecast; her customers are ILLUSTRATIVE). The answer is cheap: data at about HK$50K a year pays for itself if it keeps 0.6% of sales (slide 8).
 
 ## 5 · Test the whole household in one storm: climate hits every asset at once, and the loss lasts
 *Lookbua · 0:40 · 3 spoken words (≈1 s at 135)*
